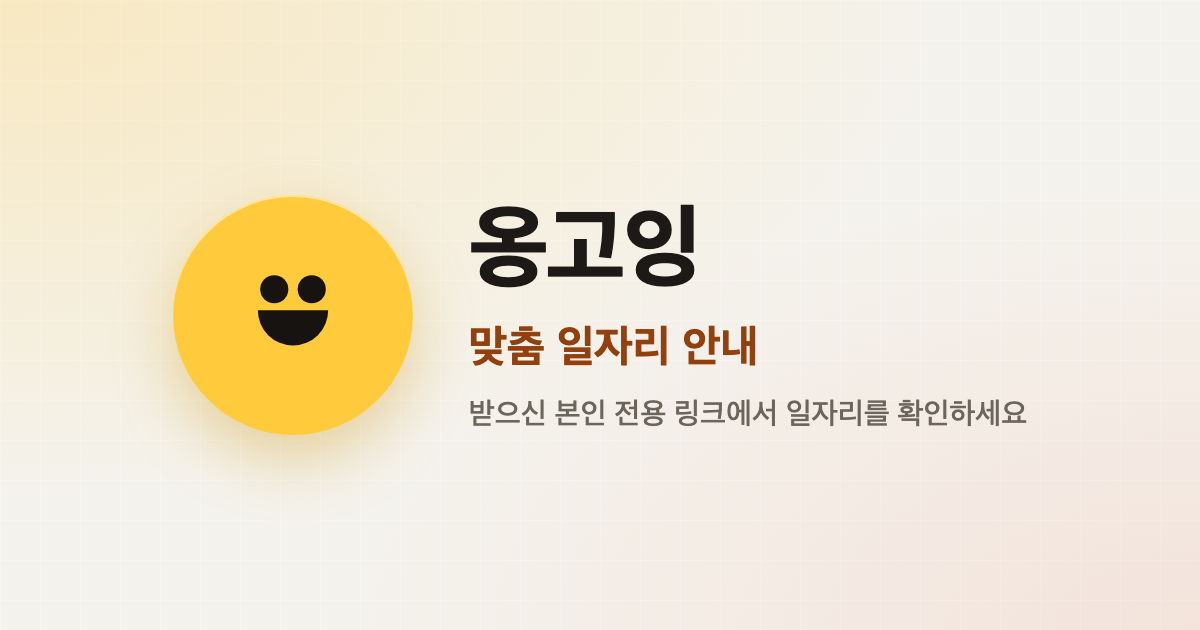
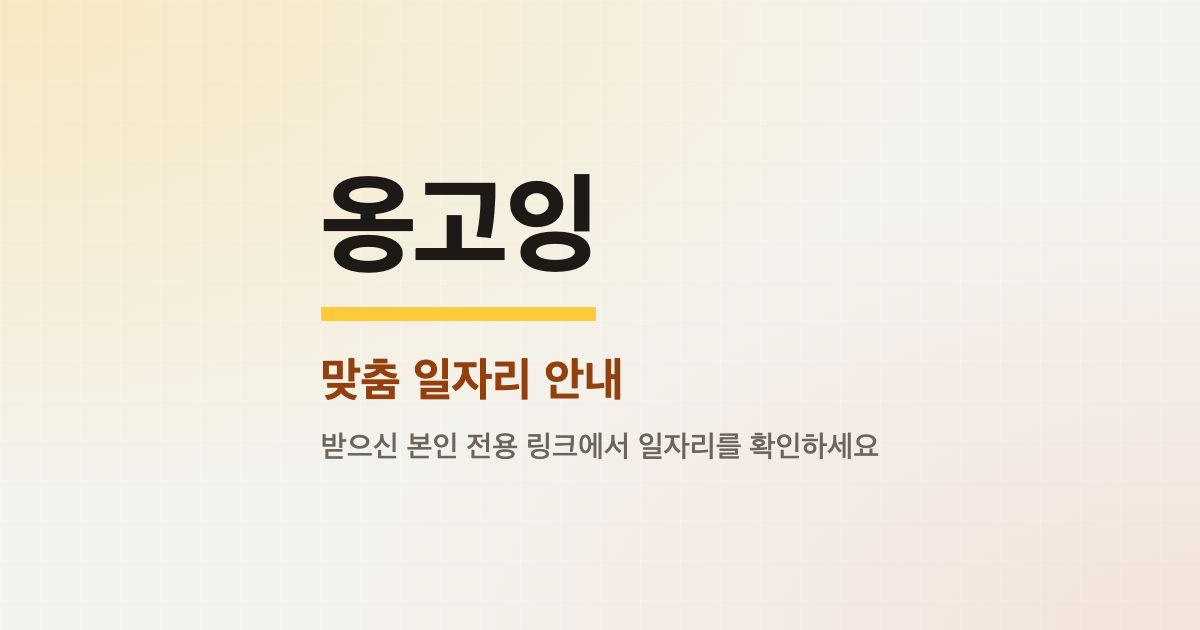
fix(지원자 브랜드): 스마일 마크 기각 → 타이포 워드마크
사용자 피드백: 네비바의 스마일 마크를 지원자 접점에 쓰는 것 별로.
레포에 실제 옹고잉 로고 자산이 없어(확인: LogoMark 스마일뿐) 지원자
페이지 헤더·푸터·로딩·오류 화면과 OG 이미지를 '옹고잉' 타이포
워드마크(+옐로 밑줄)로 교체. 실제 로고 파일이 오면 이 자리에 교체한다.
어드민 독의 스마일은 그대로(내부용).

Changed region(s): [[0.1233, 0.2714, 0.8633, 0.754]]

diff --git a/app/p/[token]/page.tsx b/app/p/[token]/page.tsx
@@ -13,7 +13,6 @@ import { useEffect, useRef, useState } from "react";
 import { coarseArea } from "@/lib/geo";
 import { POOL_STATUS_DONE_LABEL } from "@/lib/pool-status";
 import { useParams } from "next/navigation";
-import { LogoMark } from "@/components/Logo";
 
 interface PoolJob {
   id: number;
@@ -289,8 +288,8 @@ export default function PoolPage() {
   if (loading) {
     return (
       <main className="min-h-screen flex items-center justify-center p-6">
-        <div className="flex flex-col items-center gap-3">
-          <span className="flex h-14 w-14 items-center justify-center rounded-full bg-brand-yellow shadow-brand"><LogoMark size={34} /></span>
+        <div className="flex flex-col items-center gap-2">
+          <span className="text-[22px] font-extrabold tracking-tight text-foreground">옹고잉</span>
           <p className="text-[18px] font-bold text-gray-700">공고를 불러오고 있어요…</p>
         </div>
       </main>
@@ -301,7 +300,7 @@ export default function PoolPage() {
     return (
       <main className="min-h-screen flex items-center justify-center p-6">
         <div className="text-center">
-          <span className="mb-4 inline-flex h-14 w-14 items-center justify-center rounded-full bg-brand-yellow shadow-brand"><LogoMark size={34} /></span>
+          <span className="mb-3 block text-[22px] font-extrabold tracking-tight text-foreground">옹고잉</span>
           <p className="text-[20px] font-extrabold text-foreground mb-2">링크를 확인할 수 없어요</p>
           <p className="text-[16px] text-muted-foreground">문자로 받으신 링크 주소를 다시 확인해주세요.</p>
         </div>
@@ -319,9 +318,8 @@ export default function PoolPage() {
           const hasOpenJobs = jobs.some((j) => !j.expired);
           return (
             <header className="mb-6">
-              <div className="mb-4 flex items-center gap-2.5">
-                <span className="flex h-11 w-11 items-center justify-center rounded-full bg-brand-yellow shadow-brand"><LogoMark size={26} /></span>
-                <span className="text-[16px] font-extrabold tracking-tight text-foreground">옹고잉</span>
+              <div className="mb-4 flex items-baseline gap-2">
+                <span className="border-b-[3px] border-brand-yellow pb-0.5 text-[20px] font-extrabold tracking-tight text-foreground">옹고잉</span>
                 <span aria-hidden="true" className="text-muted-foreground">·</span>
                 <span className="text-[14px] font-bold text-warning-strong">맞춤 일자리</span>
               </div>
@@ -650,9 +648,8 @@ export default function PoolPage() {
         })()}
 
         <footer className="mt-10 border-t border-border-strong pt-6 pb-2 text-center">
-          <div className="mb-2 flex items-center justify-center gap-1.5">
-            <LogoMark size={18} />
-            <span className="text-[14px] font-extrabold text-foreground">옹고잉</span>
+          <div className="mb-2 flex items-center justify-center">
+            <span className="text-[15px] font-extrabold tracking-tight text-foreground">옹고잉</span>
           </div>
           <p className="text-[14px] font-bold text-gray-700 leading-relaxed">
             궁금한 점은 받으신 문자에 답장해 주세요.
